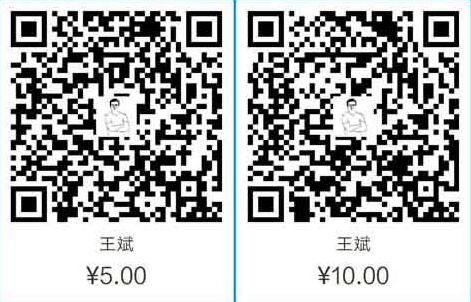
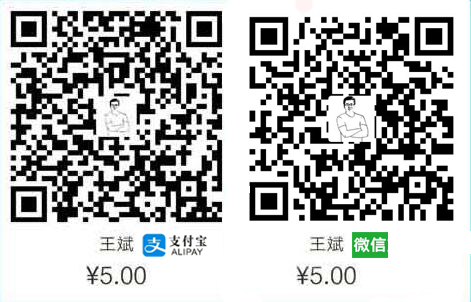
update: DOC

Changed region(s): [[0.4756, 0.0, 0.9809, 1.0], [0.2972, 0.7748, 0.4459, 0.8642], [0.9809, 0.7748, 1.0, 0.8344]]

diff --git a/README.md b/README.md
@@ -4,6 +4,7 @@
 > * [zabbix管理工具手册(w3cschool)](http://www.w3cschool.cn/zabbix_manager/)
 
 ## Supported versions
+
 > * zabbix3.0.X
 
 ## 功能
@@ -89,7 +90,7 @@ $ git push -f origin master
 
 ## 小额捐款
 
-如果你觉得zabbix_manager对你有帮助, 可以对作者进行小额捐款(支付宝)
+如果觉得 `zabbix_manager` 对您有帮助，可以请笔者喝杯咖啡
 
 ![Screenshot](images/5.jpg)
 
